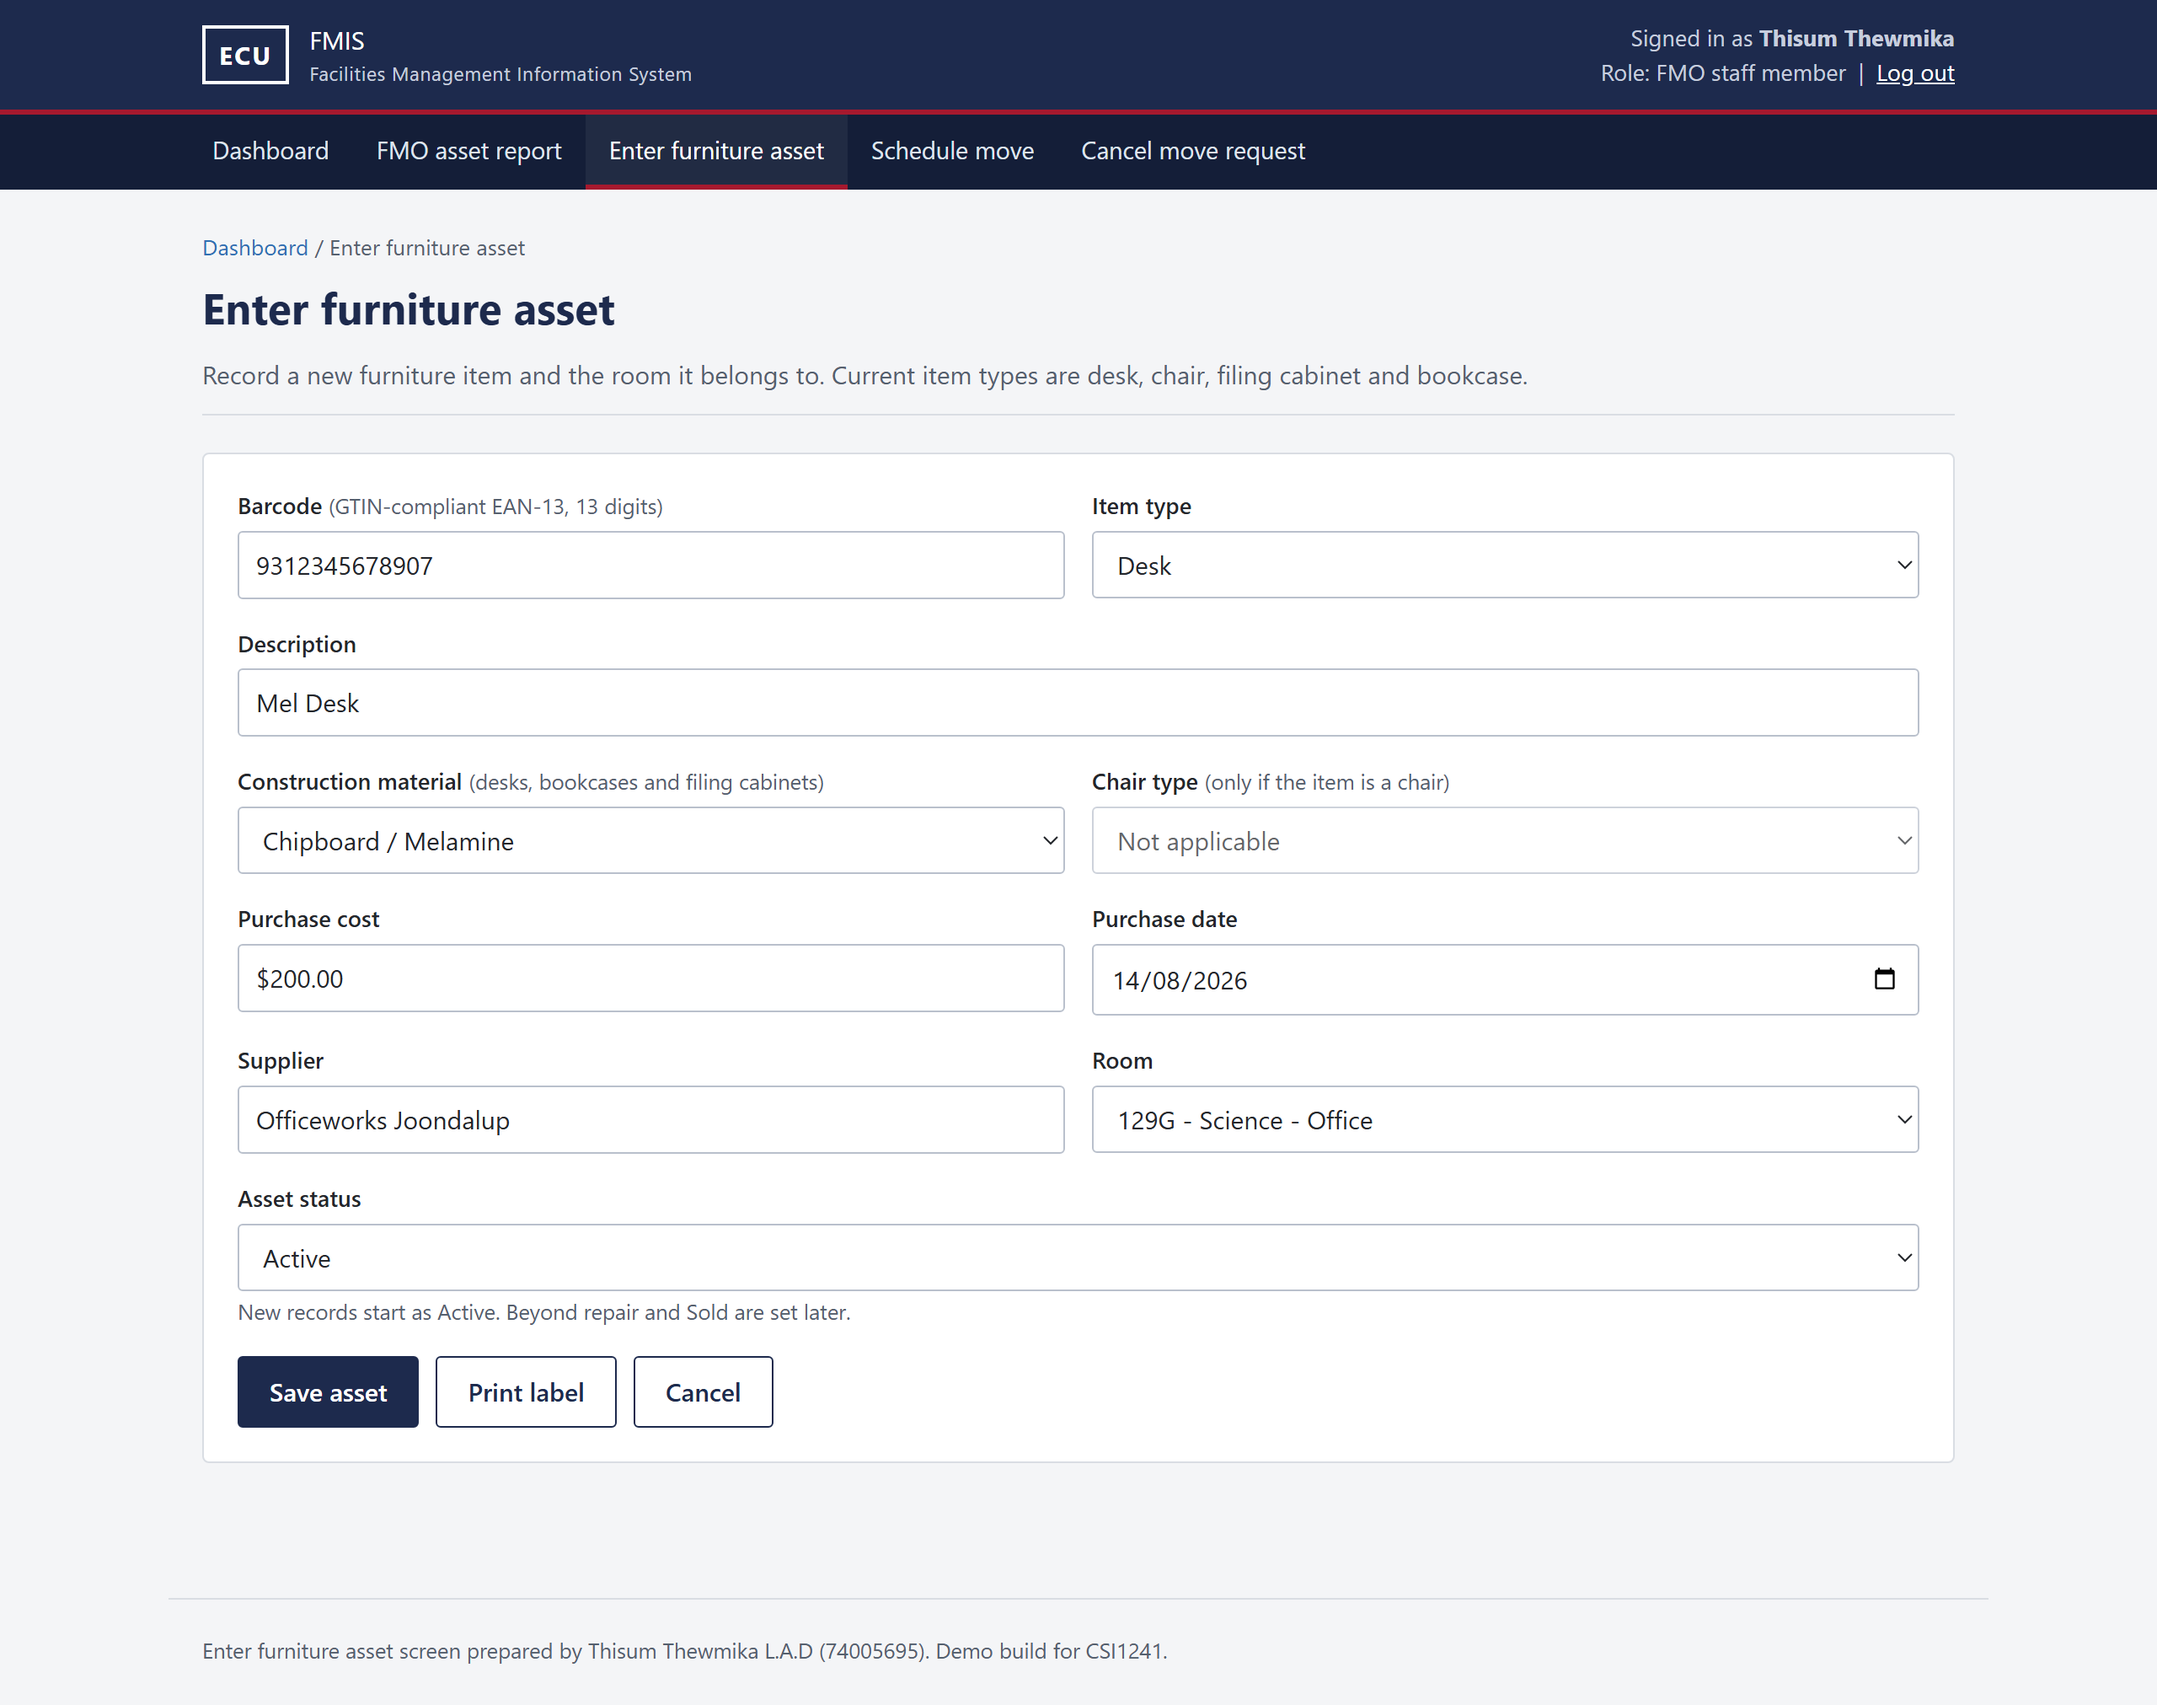
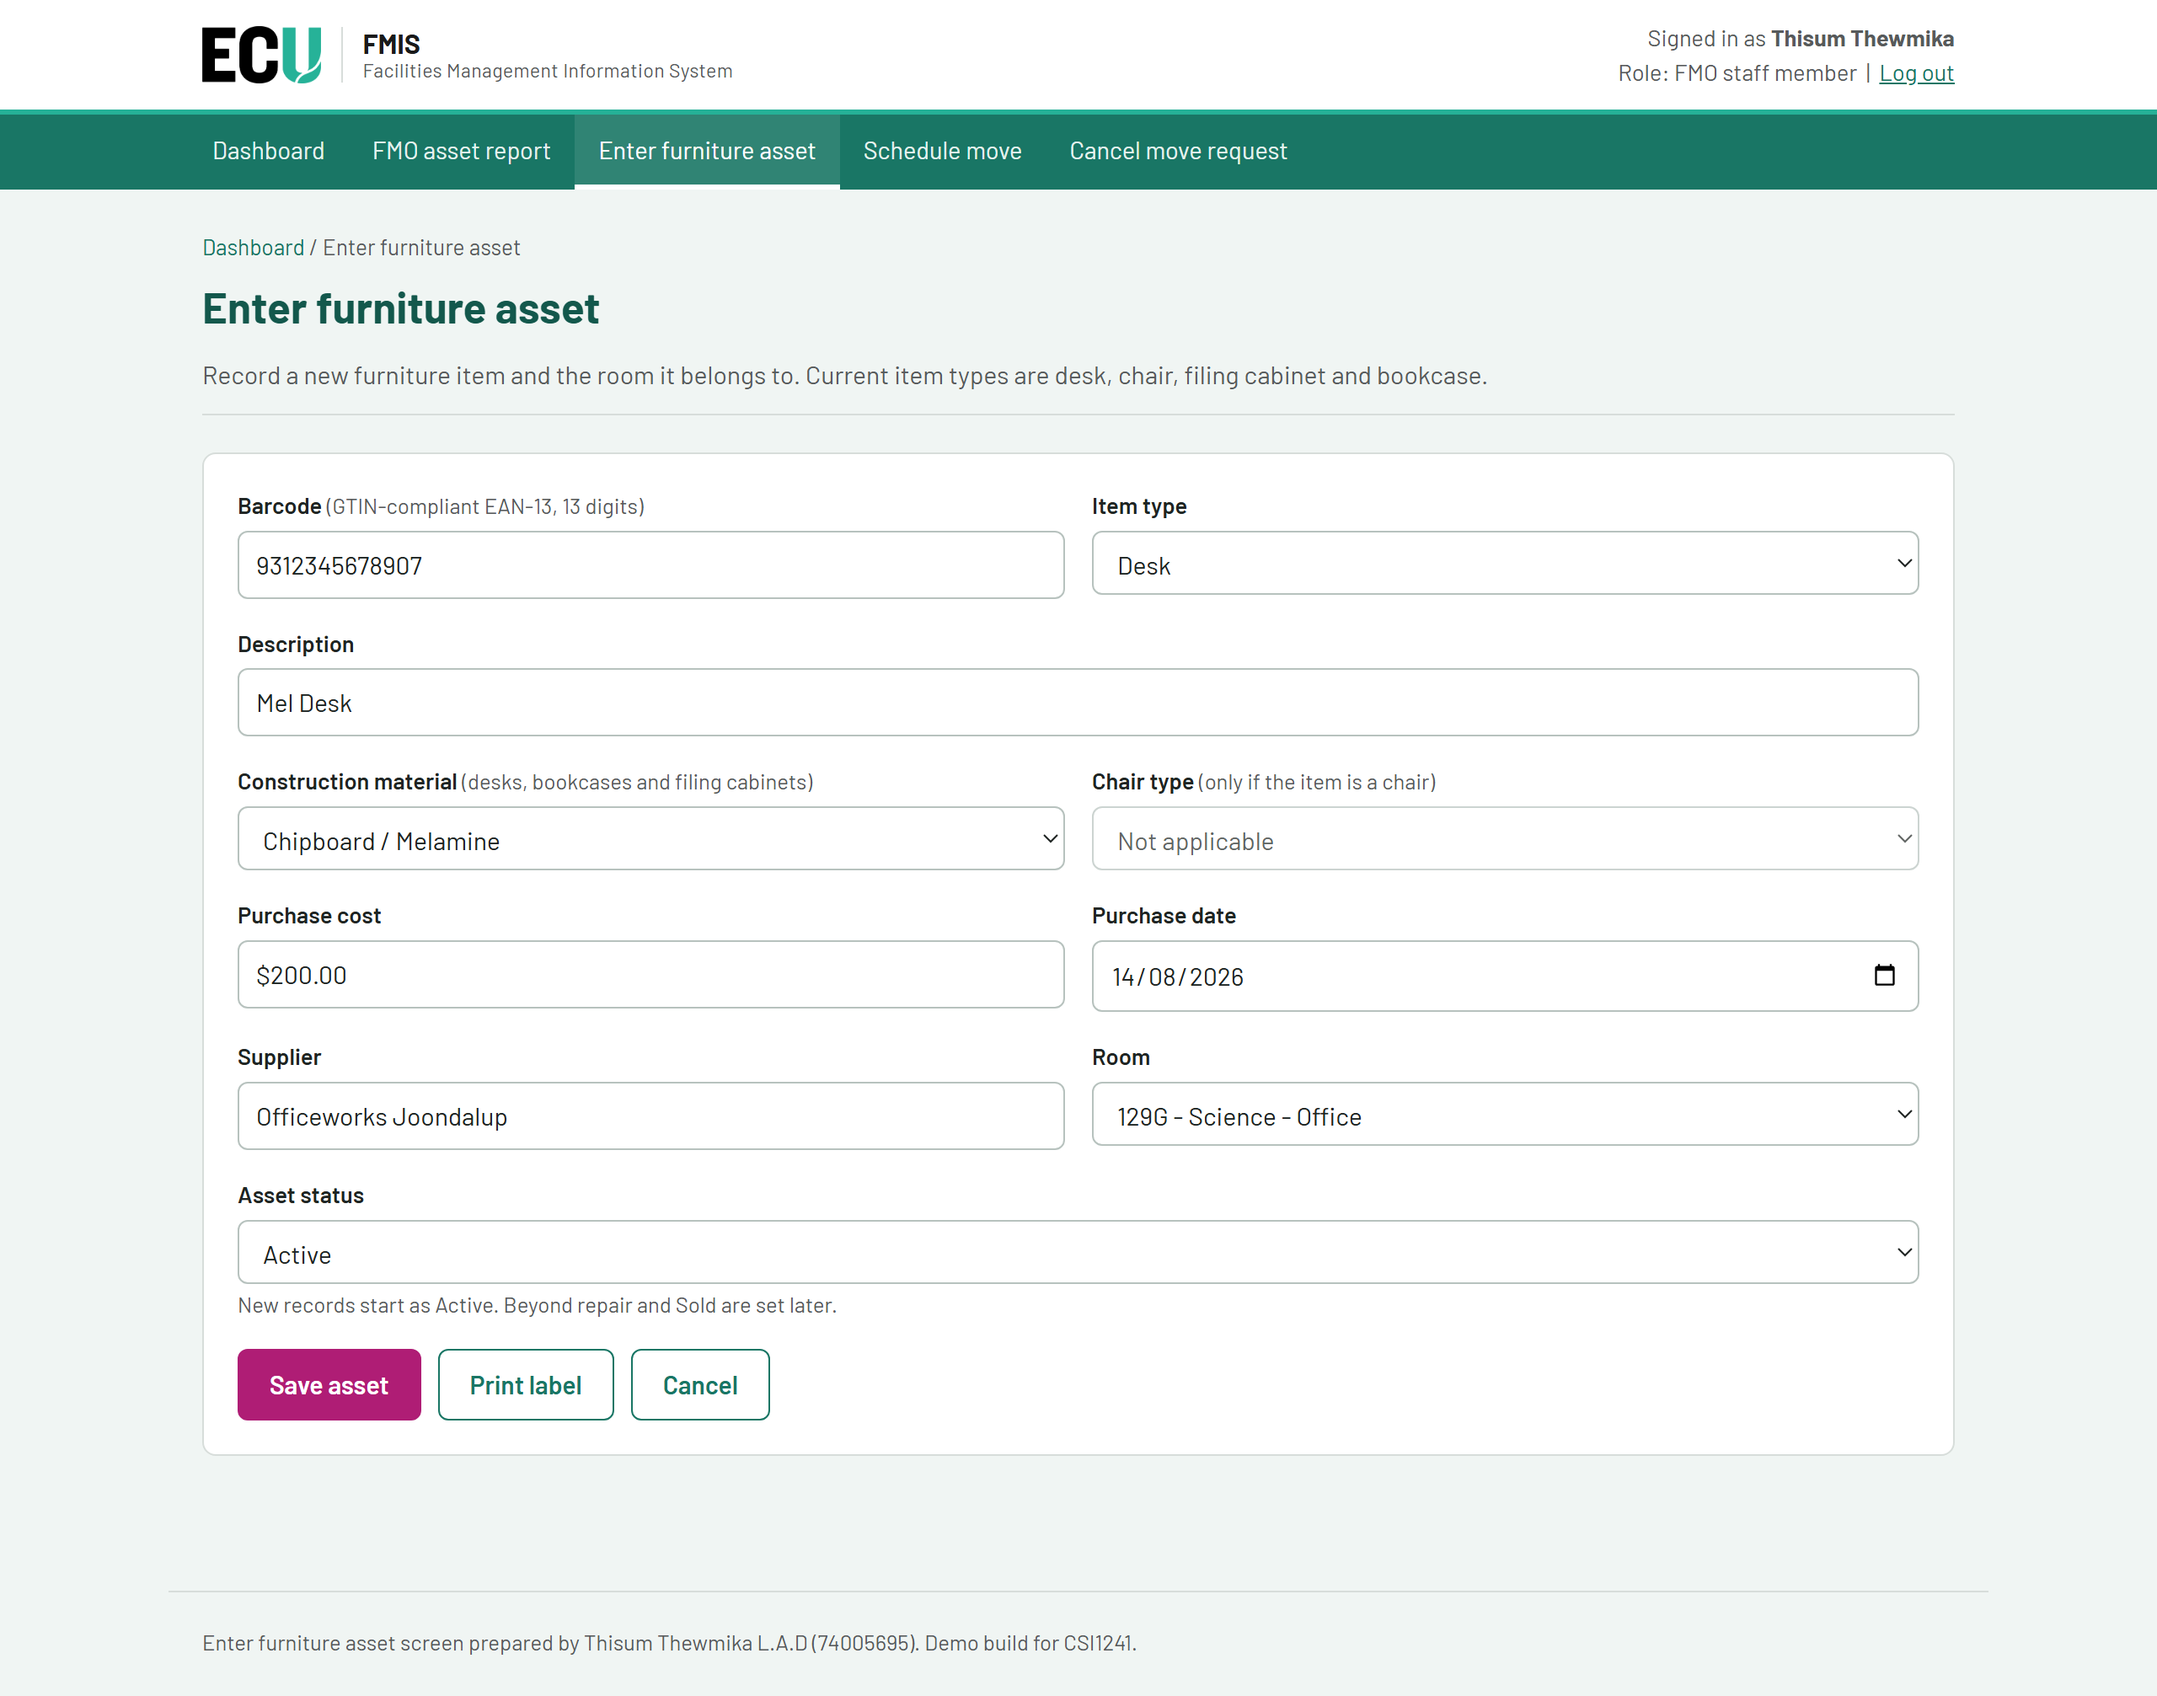
Recolour navigation map to ECU palette; refresh report screenshots
- nav-map-figure.html: teal (#13584c / #25b197) and plum (#af1d75),
  Barlow font, to match the rebranded site
- Regenerate docs/shots/*.png from the ECU-branded pages

diff --git a/docs/nav-map-figure.html b/docs/nav-map-figure.html
@@ -1,26 +1,26 @@
-<!DOCTYPE html><html><head><meta charset="UTF-8">
+<!DOCTYPE html><html><head><meta charset="UTF-8"><link rel="stylesheet" href="https://fonts.googleapis.com/css2?family=Barlow:wght@400;500;600;700&display=swap">
 <style>
 html,body{margin:0;padding:0;background:#fff;}
 body{display:inline-block;padding:10px;}
 
   .wrap { max-width:1600px; }
   .map-wrap { background:#fff; border:1px solid var(--line); padding:16px; overflow-x:auto; }
-  svg.navmap { width:1500px; max-width:none; height:auto; font-family:"Segoe UI",Arial,sans-serif; }
-  svg.navmap text { fill:#23262b; }
-  .nm-page { fill:#ffffff; stroke:#1d2a4d; stroke-width:1.6; }
-  .nm-home { fill:#eef1f5; stroke:#1d2a4d; stroke-width:2.4; }
-  .nm-num  { font-weight:700; font-size:12px; fill:#1d2a4d; }
+  svg.navmap { width:1500px; max-width:none; height:auto; font-family:"Barlow","Segoe UI",Arial,sans-serif; }
+  svg.navmap text { fill:#1f2422; }
+  .nm-page { fill:#ffffff; stroke:#13584c; stroke-width:1.6; }
+  .nm-home { fill:#e6f1ee; stroke:#13584c; stroke-width:2.4; }
+  .nm-num  { font-weight:700; font-size:12px; fill:#13584c; }
   .nm-lbl  { font-size:12.5px; }
-  .nm-sub  { font-size:10.5px; fill:#55606e; }
-  .nm-blob { fill:rgba(29,42,77,0.04); stroke:#1d2a4d; stroke-width:1.4; stroke-dasharray:2 3; }
-  .nm-blobttl { font-size:12.5px; font-weight:700; fill:#1d2a4d; }
-  .nm-link { stroke:#1d2a4d; stroke-width:1.6; fill:none; }
-  .nm-inh  { stroke:#a6192e; stroke-width:1.6; fill:none; stroke-dasharray:5 4; }
-  .nm-inhlbl { font-size:11px; fill:#a6192e; font-style:italic; }
-  .nm-note { font-size:10.5px; fill:#55606e; }
-  .nm-popbg { fill:#e7e9ee; stroke:#8a93a3; stroke-width:1; }
-  .nm-ext  { fill:#ffffff; stroke:#55606e; stroke-width:1.4; stroke-dasharray:4 3; }
-  .nm-pill { fill:#a6192e; }
+  .nm-sub  { font-size:10.5px; fill:#575a5b; }
+  .nm-blob { fill:rgba(37,177,151,0.07); stroke:#13584c; stroke-width:1.4; stroke-dasharray:2 3; }
+  .nm-blobttl { font-size:12.5px; font-weight:700; fill:#13584c; }
+  .nm-link { stroke:#13584c; stroke-width:1.6; fill:none; }
+  .nm-inh  { stroke:#af1d75; stroke-width:1.6; fill:none; stroke-dasharray:5 4; }
+  .nm-inhlbl { font-size:11px; fill:#af1d75; font-style:italic; }
+  .nm-note { font-size:10.5px; fill:#575a5b; }
+  .nm-popbg { fill:#e6f1ee; stroke:#7fa79c; stroke-width:1; }
+  .nm-ext  { fill:#ffffff; stroke:#575a5b; stroke-width:1.4; stroke-dasharray:4 3; }
+  .nm-pill { fill:#af1d75; }
   .nm-pilltxt { fill:#fff; font-size:9.5px; font-weight:700; }
 
 svg.navmap{display:block;}
@@ -28,16 +28,16 @@ svg.navmap{display:block;}
 <svg class="navmap" viewBox="0 0 1500 1120" xmlns="http://www.w3.org/2000/svg">
     <defs>
       <marker id="arrow" markerWidth="9" markerHeight="9" refX="7" refY="3" orient="auto">
-        <path d="M0,0 L7,3 L0,6 Z" fill="#1d2a4d"/>
+        <path d="M0,0 L7,3 L0,6 Z" fill="#13584c"/>
       </marker>
       <marker id="arrowRed" markerWidth="9" markerHeight="9" refX="7" refY="3" orient="auto">
-        <path d="M0,0 L7,3 L0,6 Z" fill="#a6192e"/>
+        <path d="M0,0 L7,3 L0,6 Z" fill="#af1d75"/>
       </marker>
     </defs>
 
     <!-- title -->
-    <text x="40" y="30" style="font-size:16px;font-weight:700;fill:#1d2a4d">FMIS - Website Navigation Map</text>
-    <text x="40" y="48" style="font-size:11px;fill:#55606e">CSI1241 Systems Analysis - Group A. Notation: Website Navigation lecture v1.3.</text>
+    <text x="40" y="30" style="font-size:16px;font-weight:700;fill:#13584c">FMIS - Website Navigation Map</text>
+    <text x="40" y="48" style="font-size:11px;fill:#575a5b">CSI1241 Systems Analysis - Group A. Notation: Website Navigation lecture v1.3.</text>
 
     <!-- ===== standard-links Harel blob ===== -->
     <rect class="nm-blob" x="40" y="70" width="300" height="86" rx="20"/>
@@ -73,7 +73,7 @@ svg.navmap{display:block;}
     <path class="nm-link" d="M640,268 C520,300 430,300 360,320"/>
     <text class="nm-note" x="470" y="292">bi-directional (all staff)</text>
     <path class="nm-link" d="M770,268 C880,290 940,270 980,290" marker-end="url(#arrow)"/>
-    <rect x="905" y="270" width="9" height="9" transform="rotate(45 909 274)" fill="#1d2a4d"/>
+    <rect x="905" y="270" width="9" height="9" transform="rotate(45 909 274)" fill="#13584c"/>
     <text class="nm-note" x="812" y="255">selected link - FMO staff only</text>
 
     <!-- ===== Staff Member blob ===== -->
@@ -111,10 +111,10 @@ svg.navmap{display:block;}
     <rect class="nm-page" x="90" y="696" width="255" height="50" rx="8"/>
     <text class="nm-num" x="102" y="715">2.6</text>
     <text class="nm-lbl" x="102" y="733">Cancel Maintenance Call</text>
-    <path d="M345,730 L345,746 L329,746 Z" fill="#1d2a4d"/>
+    <path d="M345,730 L345,746 L329,746 Z" fill="#13584c"/>
 
     <!-- note inside staff blob -->
-    <rect x="378" y="556" width="255" height="150" rx="6" fill="#f7f8fa" stroke="#d9dde3"/>
+    <rect x="378" y="556" width="255" height="150" rx="6" fill="#f4faf8" stroke="#d7ddda"/>
     <text class="nm-note" x="390" y="578">Every page in this group also has a</text>
     <text class="nm-note" x="390" y="593">bi-directional link to the Dashboard (2)</text>
     <text class="nm-note" x="390" y="608">and to Home (H). These come from the</text>
@@ -162,8 +162,8 @@ svg.navmap{display:block;}
     <text class="nm-lbl" x="747" y="723">Action Maintenance Call</text>
 
     <!-- page connector 3 -->
-    <circle cx="1044" cy="641" r="17" fill="#fff" stroke="#1d2a4d" stroke-width="1.6"/>
-    <text x="1039" y="646" style="font-size:13px;font-weight:700;fill:#1d2a4d">3</text>
+    <circle cx="1044" cy="641" r="17" fill="#fff" stroke="#13584c" stroke-width="1.6"/>
+    <text x="1039" y="646" style="font-size:13px;font-weight:700;fill:#13584c">3</text>
     <path class="nm-link" d="M1010,641 L1027,641" marker-end="url(#arrow)"/>
     <text class="nm-note" x="1066" y="638">map continues: Building /</text>
     <text class="nm-note" x="1066" y="652">Floor / Room admin detail</text>
@@ -176,16 +176,16 @@ svg.navmap{display:block;}
 
     <!-- ===== HR System (new application) ===== -->
     <rect class="nm-ext" x="1270" y="520" width="190" height="58" rx="6"/>
-    <text style="font-size:12px;font-weight:700;fill:#1d2a4d" x="1284" y="544">HR System</text>
+    <text style="font-size:12px;font-weight:700;fill:#13584c" x="1284" y="544">HR System</text>
     <text class="nm-sub" x="1284" y="560">new application - external</text>
     <text class="nm-sub" x="1284" y="572">(different URL, read only)</text>
     <path class="nm-link" d="M1010,641 C1110,641 1180,600 1268,556" marker-end="url(#arrow)"/>
-    <rect x="1146" y="604" width="9" height="9" transform="rotate(45 1150 608)" fill="#1d2a4d"/>
+    <rect x="1146" y="604" width="9" height="9" transform="rotate(45 1150 608)" fill="#13584c"/>
     <text class="nm-note" x="1030" y="672">read staff contact details</text>
     <text class="nm-note" x="1030" y="685">(FR 3.1.11, 3.1.18; A4.13)</text>
 
     <!-- ===== Legend ===== -->
-    <rect x="40" y="812" width="1120" height="286" rx="6" fill="#fbfbfc" stroke="#d9dde3"/>
+    <rect x="40" y="812" width="1120" height="286" rx="6" fill="#f7fbf9" stroke="#d7ddda"/>
     <text class="nm-blobttl" x="58" y="834">Legend</text>
 
     <!-- col 1 -->
@@ -198,7 +198,7 @@ svg.navmap{display:block;}
     <text class="nm-note" x="196" y="913">Site landing page. Always reachable from any page (closure).</text>
 
     <rect class="nm-page" x="60" y="936" width="120" height="34" rx="6"/>
-    <path d="M180,970 L180,954 L164,970 Z" fill="#1d2a4d"/>
+    <path d="M180,970 L180,954 L164,970 Z" fill="#13584c"/>
     <text class="nm-lbl" x="70" y="957">Leaf page</text>
     <text class="nm-note" x="196" y="957">Does not link to any further page (may still return to earlier pages).</text>
 
@@ -219,7 +219,7 @@ svg.navmap{display:block;}
     <text class="nm-note" x="775" y="900">Uni-directional link (jump to another part of the site).</text>
 
     <path class="nm-link" d="M660,932 L760,932" marker-end="url(#arrow)"/>
-    <rect x="705" y="928" width="9" height="9" transform="rotate(45 709 932)" fill="#1d2a4d"/>
+    <rect x="705" y="928" width="9" height="9" transform="rotate(45 709 932)" fill="#13584c"/>
     <text class="nm-note" x="775" y="936">Selected link (only for a chosen user role, e.g. FMO staff).</text>
 
     <rect class="nm-blob" x="660" y="956" width="100" height="30" rx="14"/>
@@ -228,8 +228,8 @@ svg.navmap{display:block;}
     <path class="nm-inh" d="M660,1006 L760,1006" marker-end="url(#arrowRed)"/>
     <text class="nm-note" x="775" y="1010">inherits - the grouped link appears on every descendant page.</text>
 
-    <circle cx="710" cy="1042" r="14" fill="#fff" stroke="#1d2a4d" stroke-width="1.6"/>
-    <text x="705" y="1047" style="font-size:12px;font-weight:700;fill:#1d2a4d">n</text>
+    <circle cx="710" cy="1042" r="14" fill="#fff" stroke="#13584c" stroke-width="1.6"/>
+    <text x="705" y="1047" style="font-size:12px;font-weight:700;fill:#13584c">n</text>
     <text class="nm-note" x="775" y="1046">Page connector - map continues on another sheet / another area.</text>
   </svg>
 </body></html>
